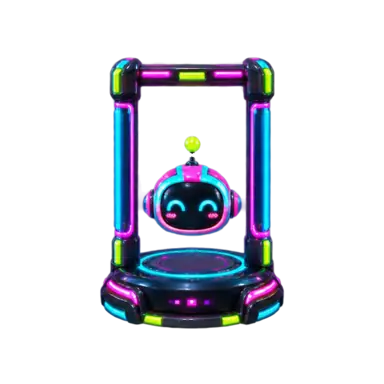
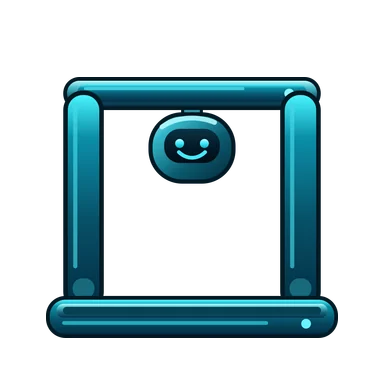
feat: generate arcade Hangman illustrations

diff --git a/docs/design/game-art-fidelity-ledger.md b/docs/design/game-art-fidelity-ledger.md
@@ -279,3 +279,21 @@ Contact-sheet order is pawn-1 through pawn-4, then d4, d6, d8, d10, d12, d20. By
 Stage remains `generation-batches`: 101 completed custom records, seven `generationPending` custom records, and nine unchanged `authorityReferencePending` quarter slots. All 117 production sprites total 872,134 bytes; the largest remains the inherited 17,732-byte Arcade Hangman stage 6, below the 2 MiB total and 64 KiB per-file limits.
 
 Only these ten records, sources, finals, and four QA sheets belong to this batch. No catalog, registry, validator, dependency, authoring helper, runtime integration, gameplay, or deployment change was needed, and this inspection does not claim a fresh browser gameplay audit.
+
+## Task 2M Arcade Hangman illustrations -- 2026-10-04
+
+Accepted seven deterministic Arcade Hangman illustrations from the unchanged shared fixed-progression geometry. The token-only Arcade entrypoint adds dark translucent cyan plastic, restrained neon-cyan rims, solid dark boundaries and centers, subtle acrylic depth, fixed upper-left highlights, and a bright friendly face. Every stage remains readable without glow and contains no text, label, threatening imagery, checkerboard, background, ground plane, cast shadow, clipping, detached speck, or extra object.
+
+| Inspection | Evidence and result |
+| --- | --- |
+| Original sources | All seven 1024x1024 true-alpha PNGs were inspected individually at native detail and together in ordered light/dark sheets through the approved inline fallback after direct view_image failed because bubblewrap is unavailable. The progression is platform, posts, crossbar, cheerful connected head, rounded torso, short arms, then connected feet resting on the platform. Dark centers, cyan plastic depth, outlines, highlights, eyes and smile remain clear on both backgrounds. |
+| Shared architecture, geometry and retention | scripts/generate-arcade-hangman.mjs contains only theme, gradient, material and decor tokens and delegates every structural path, coordinate, source frame, layer and render step to scripts/hangman-geometry.mjs. Every Arcade alpha mask is pixel-identical to the corresponding Modern and Retro stage. Each source has the exact x=123..900 platform bounds (778px), bottom edge y=901, 75.9766% longest-bound fill, transparent corners, no edge contact and one meaningful component. Opaque prior pixels are retained exactly; visible pixels grow monotonically from 84,992 to 366,866. |
+| Production-size light/dark | [Light](qa/arcade-hangman-full-light.webp) and [dark](qa/arcade-hangman-full-dark.webp) sheets show the exact seven 384px final WebPs in stage order. The fixed cyan frame, solid dark centers, acrylic depth, complete silhouettes and semantic additions remain distinct. A native zoom check confirms that the bright eyes and smile remain clear on the dark sheet without bloom. |
+| Phone-size readability | [Light](qa/arcade-hangman-phone-light.webp) and [dark](qa/arcade-hangman-phone-dark.webp) 160px-cell sheets keep the frame, face, torso, arms and feet unmistakable. Solid boundaries and centers prevent dark-background washout, while the restrained cyan rims preserve the plastic material without becoming glow-only marks. |
+| Final geometry and budget | All seven finals share source union { left: 123, top: 206, width: 778, height: 695 }, downscale-only factor 0.37532133676092544, left x=46 and output base y=338. Each has 76.0417% longest-bound fill, at least 11.98% padding, transparent corners, no edge contact, one meaningful component and a distinct hash. Batch finals total 45,370 bytes; largest final is 10,572 bytes. Sources total 280,406 bytes and remain outside the runtime budget. |
+
+Contact-sheet order is stage-0 through stage-6. Fresh deterministic authoring reproduced all 21 Modern/Retro/Arcade sources byte-for-byte; fresh shared group normalization reproduced all 21 finals; all seven repeated Arcade renders were byte-identical; fresh generation reproduced all four Arcade QA sheets byte-for-byte. Hard hash pins and the all-theme normalization pass preserved all fourteen accepted Modern/Retro sources and fourteen accepted Modern/Retro finals byte-for-byte.
+
+Stage remains generation-batches: 108 completed custom records, zero generationPending records, and nine unchanged authorityReferencePending quarter slots. All 117 production sprites total 823,492 bytes; the largest is the inherited 15,328-byte Arcade Coin Flip heads placeholder, below the 2 MiB total and 64 KiB per-file limits.
+
+Only the seven Arcade Hangman records, sources, finals, four QA sheets, token-only theme entrypoint, focused tests, three-theme production explanation and this fidelity evidence belong to the batch. Shared geometry, Modern/Retro generators and bytes, catalog, registry, dependencies, runtime integration, gameplay and deployment remain unchanged. This inspection does not claim a fresh browser gameplay audit.

diff --git a/docs/design/game-art-production.md b/docs/design/game-art-production.md
@@ -63,11 +63,12 @@ Do not replace status flags with `false`; remove the property when the real sour
 
 ### Approved deterministic Hangman authoring
 
-Modern and Retro Hangman use `scripts/generate-modern-hangman.mjs` and `scripts/generate-retro-hangman.mjs`. Both theme entrypoints delegate every structural silhouette, path and coordinate, source framing, stage validation, conditional layer order, and 1024px Sharp rendering to `scripts/hangman-geometry.mjs`; each entrypoint supplies only gradient definitions plus palette, material, and optional decor tokens. Focused alpha-mask parity and fresh-render byte tests enforce the exact same fixed geometry. Modern remains byte-pinned, while Retro supplies painted honey-brown wood, cream peg-doll surfaces, brass details, restrained grain and light age:
+Modern, Retro, and Arcade Hangman use `scripts/generate-modern-hangman.mjs`, `scripts/generate-retro-hangman.mjs`, and `scripts/generate-arcade-hangman.mjs`. All three theme entrypoints delegate every structural silhouette, path and coordinate, source framing, stage validation, conditional layer order, and 1024px Sharp rendering to `scripts/hangman-geometry.mjs`; each entrypoint supplies only gradient definitions plus palette, material, and optional decor tokens. Focused alpha-mask parity and fresh-render byte tests enforce the exact same fixed geometry. Modern remains byte-pinned; Retro supplies painted honey-brown wood, cream peg-doll surfaces, brass details, restrained grain and light age; Arcade supplies dark translucent cyan plastic, restrained neon-cyan rims, solid dark boundaries and centers, subtle acrylic depth, and a friendly bright-cyan face readable without glow:
 
 ```sh
 node scripts/generate-modern-hangman.mjs
 node scripts/generate-retro-hangman.mjs
+node scripts/generate-arcade-hangman.mjs
 ```
 
 The shared front-orthographic assembly fixes the 778px-wide platform at x=123..900 with bottom edge y=901. Later stages retain the exact platform/frame definitions and add posts, crossbar, connected friendly head, torso, arms, then feet. Additions are layered behind existing pieces so established opaque pixels remain byte-identical. The output uses no runtime dependency, text, baked interface, background, ground plane, cast shadow, or threatening imagery. After reviewing all seven individual PNGs, remove only their `generationPending` flags, record real dates plus the theme entrypoint identifier, and normalize them together with `normalizeHangmanGroup`; all normal fill, padding, connected-component, distinctness, safety, and byte-budget gates remain unchanged.
